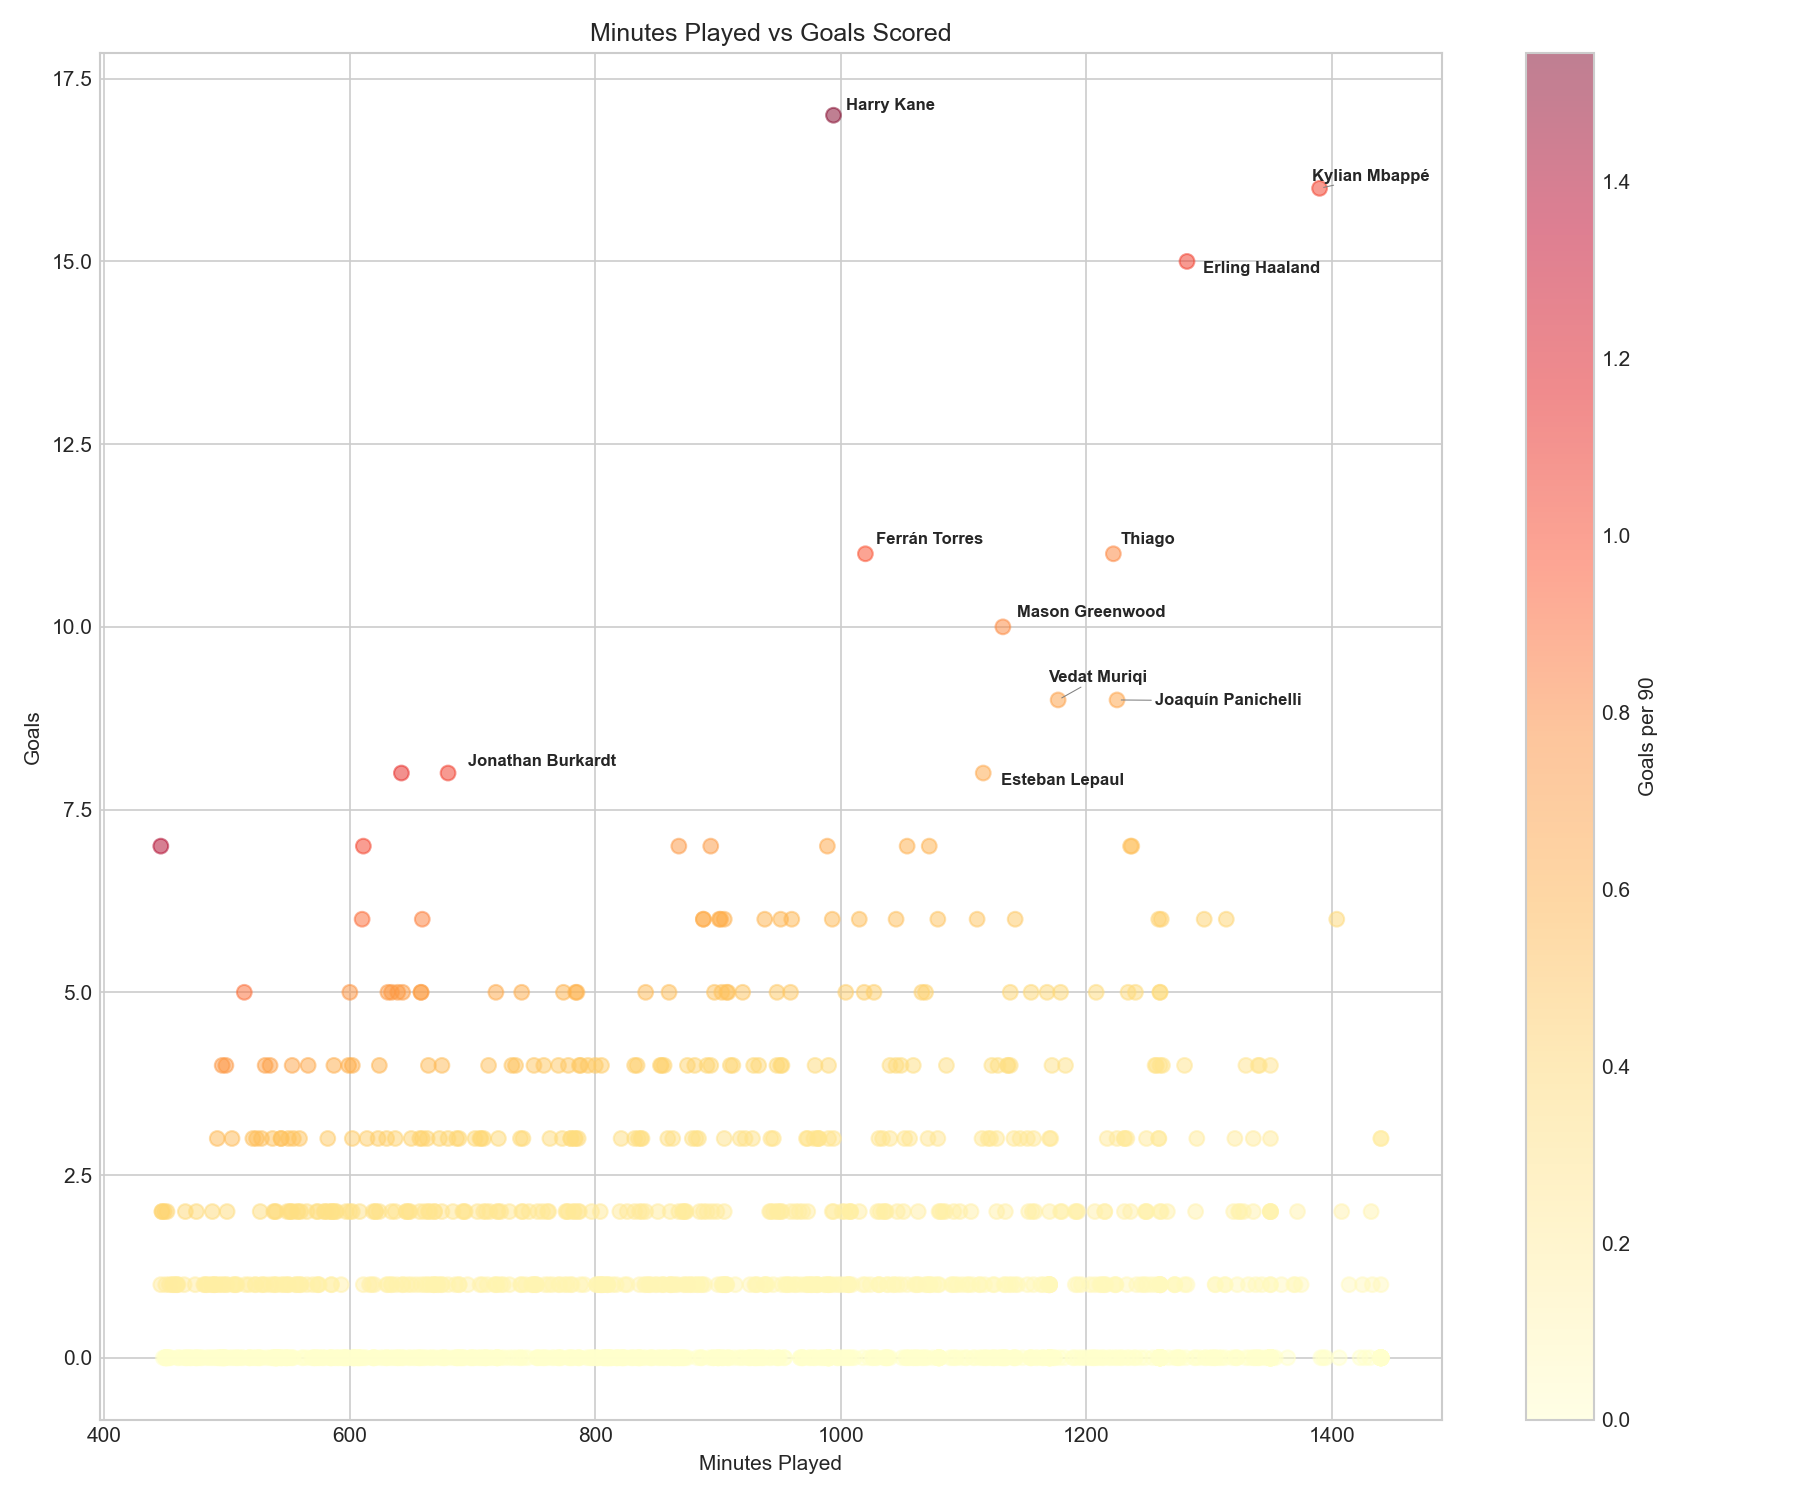
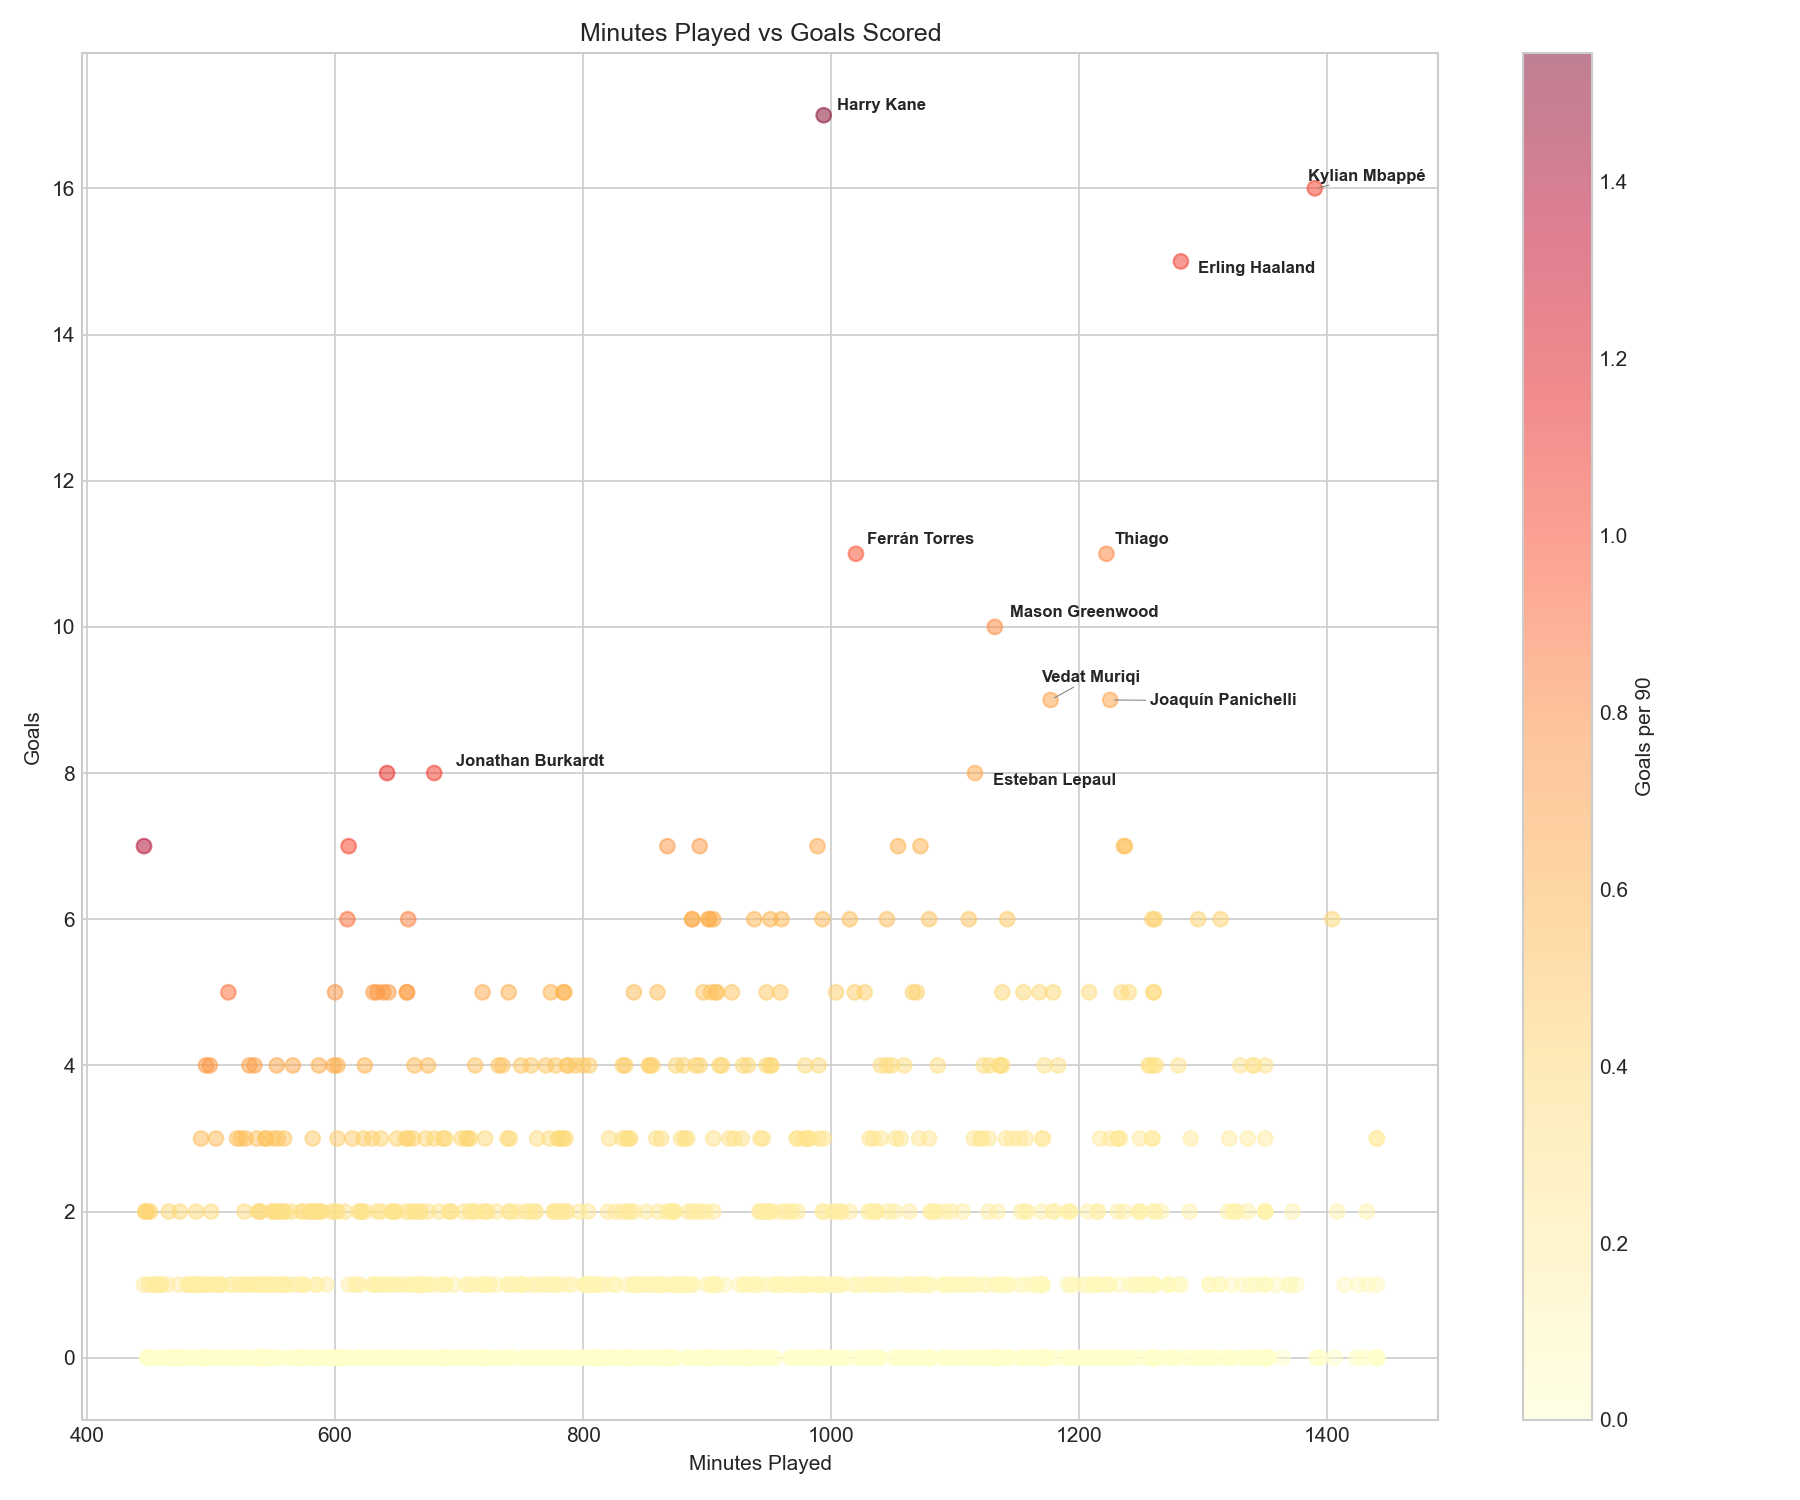
Add player similarity analysis with position-based metrics

diff --git a/src/similarity.py b/src/similarity.py
@@ -1,0 +1,234 @@
+import pandas as pd
+import numpy as np
+from sklearn.preprocessing import StandardScaler
+from sklearn.metrics.pairwise import cosine_similarity
+from analysis import get_data
+
+# Position-based metrics
+FW_METRICS = ['gls', 'ast', 'g_a', 'xg', 'xag', 'npxg', 'g_pk', 'kp', 'xa', 'ppa',
+              'touches', 'carries', 'prgr', 'mis', 'pkwon', 'pkcon']
+
+MF_METRICS = ['gls', 'ast', 'g_a', 'xg', 'xag', 'npxg', 'g_pk', 'tkl', 'tklw',
+              'int', 'tkl_int', 'prgp', 'prgc', 'kp', 'xa', 'ppa', 'touches',
+              'carries', 'prgr', 'mis', 'dis', 'crdy', 'crdr', 'recov']
+
+DF_METRICS = ['tkl', 'tklw', 'blocks', 'int', 'tkl_int', 'clr', 'err', 'prgp',
+              'prgc', 'touches', 'carries', 'mis', 'dis', 'crdy', 'crdr', 'recov']
+
+GK_METRICS = ['ga', 'saves', 'save', 'cs', 'pka', 'pksv']
+
+
+def prepare_data():
+    """Fetch and prepare data for similarity analysis"""
+    df = get_data()
+    df = df[df['col_90s'] >= 5].copy()
+    return df
+
+
+def get_primary_position(pos):
+    """Extract primary position from position string"""
+    if pd.isna(pos):
+        return None
+    pos = pos.upper().replace('"', '').strip()
+    if ',' in pos:
+        return pos.split(',')[0].strip()
+    return pos
+
+
+def get_all_positions(pos):
+    """Get all positions a player can play"""
+    if pd.isna(pos):
+        return []
+    pos = pos.upper().replace('"', '').strip()
+    if ',' in pos:
+        return [p.strip() for p in pos.split(',')]
+    return [pos]
+
+
+def filter_by_position(df, player_pos):
+    """Filter players by compatible positions"""
+    player_positions = get_all_positions(player_pos)
+
+    if not player_positions:
+        return df
+
+    def is_compatible(row_pos):
+        row_positions = get_all_positions(row_pos)
+        # Check if any position matches
+        for pp in player_positions:
+            for rp in row_positions:
+                if pp == rp:
+                    return True
+                # FW can match with FW,MF or MF,FW
+                if pp in rp or rp in pp:
+                    return True
+        return False
+
+    return df[df['pos'].apply(is_compatible)]
+
+
+def get_metrics_for_position(pos):
+    """Return relevant metrics based on position"""
+    primary_pos = get_primary_position(pos)
+
+    if primary_pos == 'GK':
+        return GK_METRICS
+    elif primary_pos == 'DF':
+        return DF_METRICS
+    elif primary_pos == 'MF':
+        return MF_METRICS
+    elif primary_pos == 'FW':
+        return FW_METRICS
+    else:
+        return FW_METRICS + MF_METRICS  # Default to attacking metrics
+
+
+def calculate_similarity(df, metrics):
+    """Calculate similarity matrix using cosine similarity"""
+    available_metrics = [m for m in metrics if m in df.columns]
+
+    if not available_metrics:
+        return None, []
+
+    metrics_df = df[available_metrics].copy()
+    metrics_df = metrics_df.fillna(0)
+
+    scaler = StandardScaler()
+    metrics_scaled = scaler.fit_transform(metrics_df)
+    similarity_matrix = cosine_similarity(metrics_scaled)
+
+    return similarity_matrix, available_metrics
+
+
+def find_similar_players(df, player_name, top_n=5):
+    """Find most similar players to a given player"""
+
+    # Find player
+    player_idx = df[df['player'].str.lower() == player_name.lower()].index
+
+    if len(player_idx) == 0:
+        player_idx = df[df['player'].str.lower().str.contains(player_name.lower())].index
+        if len(player_idx) == 0:
+            return None, None, None, f"Player '{player_name}' not found"
+        elif len(player_idx) > 1:
+            matches = df.loc[player_idx, 'player'].tolist()
+            return None, None, None, f"Multiple matches: {matches}"
+
+    player_idx = player_idx[0]
+    original = df.loc[player_idx]
+
+    # Filter by position
+    filtered_df = filter_by_position(df, original['pos'])
+
+    if len(filtered_df) < 2:
+        return None, None, None, f"Not enough players with position {original['pos']}"
+
+    # Get position-specific metrics
+    metrics = get_metrics_for_position(original['pos'])
+
+    # Calculate similarity on filtered players
+    similarity_matrix, used_metrics = calculate_similarity(filtered_df, metrics)
+
+    if similarity_matrix is None:
+        return None, None, None, "Could not calculate similarity"
+
+    # Find player's new index in filtered df
+    player_row = filtered_df.index.get_loc(player_idx)
+    similarities = similarity_matrix[player_row]
+
+    # Get top similar (excluding self)
+    similar_indices = np.argsort(similarities)[::-1][1:top_n + 1]
+
+    results = []
+    for idx in similar_indices:
+        similar_player_idx = filtered_df.index[idx]
+        similarity_score = similarities[idx] * 100
+
+        results.append({
+            'player': filtered_df.loc[similar_player_idx, 'player'],
+            'squad': filtered_df.loc[similar_player_idx, 'squad'],
+            'pos': filtered_df.loc[similar_player_idx, 'pos'],
+            'comp': filtered_df.loc[similar_player_idx, 'comp'],
+            'similarity': round(similarity_score, 1)
+        })
+
+    return results, original, used_metrics, None
+
+
+def compare_metrics(original, similar_players, df, metrics):
+    """Show metric comparison between players"""
+
+    display_metrics = [m for m in metrics if m in df.columns]
+
+    print("\n" + "=" * 140)
+    print(f"METRIC COMPARISON ({len(display_metrics)} metrics)")
+    print("=" * 140)
+
+    # Header
+    header = f"{'Player':<25}"
+    for m in display_metrics:
+        header += f"{m:<8}"
+    print(header)
+    print("-" * 140)
+
+    # Original player
+    row = f">> {original['player']:<22}"
+    for m in display_metrics:
+        val = original[m] if m in original and pd.notna(original[m]) else 0
+        row += f"{val:<8.1f}"
+    print(row)
+
+    # Similar players
+    for sp in similar_players:
+        p = df[df['player'] == sp['player']].iloc[0]
+        row = f"({sp['similarity']:.0f}%) {p['player']:<19}"
+        for m in display_metrics:
+            val = p[m] if m in p and pd.notna(p[m]) else 0
+            row += f"{val:<8.1f}"
+        print(row)
+
+    # Similar players
+    for sp in similar_players:
+        p = df[df['player'] == sp['player']].iloc[0]
+        row = f"({sp['similarity']:.0f}%) {p['player']:<19}"
+        for m in display_metrics:
+            val = p[m] if m in p and pd.notna(p[m]) else 0
+            row += f"{val:<10.1f}"
+        print(row)
+
+
+def main():
+    print("Loading data...")
+    df = prepare_data()
+    print(f"Loaded {len(df)} players")
+    print("Ready!\n")
+
+    while True:
+        print("=" * 60)
+        player_name = input("Enter player name (or 'quit' to exit): ").strip()
+
+        if player_name.lower() == 'quit':
+            break
+
+        similar, original, metrics, error = find_similar_players(df, player_name)
+
+        if error:
+            print(f"[ERROR] {error}")
+            continue
+
+        print(f"\nPLAYERS SIMILAR TO: {original['player']}")
+        print(f"Team: {original['squad']} | Position: {original['pos']} | League: {original['comp']}")
+        print(f"Metrics used: {len(metrics)} ({', '.join(metrics[:5])}...)")
+
+        print("\n" + "-" * 60)
+        print(f"{'Rank':<6} {'Player':<25} {'Team':<20} {'Position':<12} {'Similarity':<10}")
+        print("-" * 60)
+
+        for i, sp in enumerate(similar, 1):
+            print(f"{i:<6} {sp['player']:<25} {sp['squad']:<20} {sp['pos']:<12} {sp['similarity']}%")
+
+        compare_metrics(original, similar, df, metrics)
+
+
+if __name__ == "__main__":
+    main()

diff --git a/src/analysis.py b/src/analysis.py
@@ -11,27 +11,19 @@ def get_data():
     )
 
     query = """
-            SELECT player, \
-                   nation, \
-                   pos, \
-                   squad, \
-                   comp, \
-                   age, \
-                   gls, \
-                   ast, \
-                   xg, \
-                   xag,
-                   col_90s, \
-                   g_pk, \
-                   npxg, \
-                   sh, \
-                   sot, \
-                   mp, \
-                   starts, \
-                   min
-            FROM football_analytics.players
-            WHERE col_90s >= 5 \
-            """
+    SELECT player, nation, pos, squad, comp, age, 
+           gls, ast, g_a, xg, xag, npxg, g_pk,
+           col_90s, sh, sot, mp, starts, min,
+           tkl, tklw, blocks, int, tkl_int, clr, err,
+           prgp, prgc, prgr_stats_possession as prgr,
+           kp, xa, ppa,
+           touches, carries, mis, dis,
+           crdy, crdr, recov,
+           pkwon, pkcon,
+           ga, saves, save, cs, pka, pksv
+    FROM football_analytics.players
+    WHERE col_90s >= 5
+    """
     df = pd.read_sql(query, conn)
 
     # Alpha calculations
@@ -88,4 +80,4 @@ def print_analysis(df):
 if __name__ == "__main__":
     df = get_data()
     print_analysis(df)
-    print("\n✅ Analysis complete!")
+    print("\n[OK] Analysis complete!")

diff --git a/src/visualization.py b/src/visualization.py
@@ -220,6 +220,9 @@ def create_visualizations(df):
     plt.xlabel('Minutes Played')
     plt.ylabel('Goals')
     plt.title('Minutes Played vs Goals Scored')
+
+    plt.gca().yaxis.set_major_locator(plt.MaxNLocator(integer=True))
+
     plt.tight_layout()
     plt.savefig(OUTPUT_DIR / '10_minutes_vs_goals.png', dpi=150)
     plt.close()
